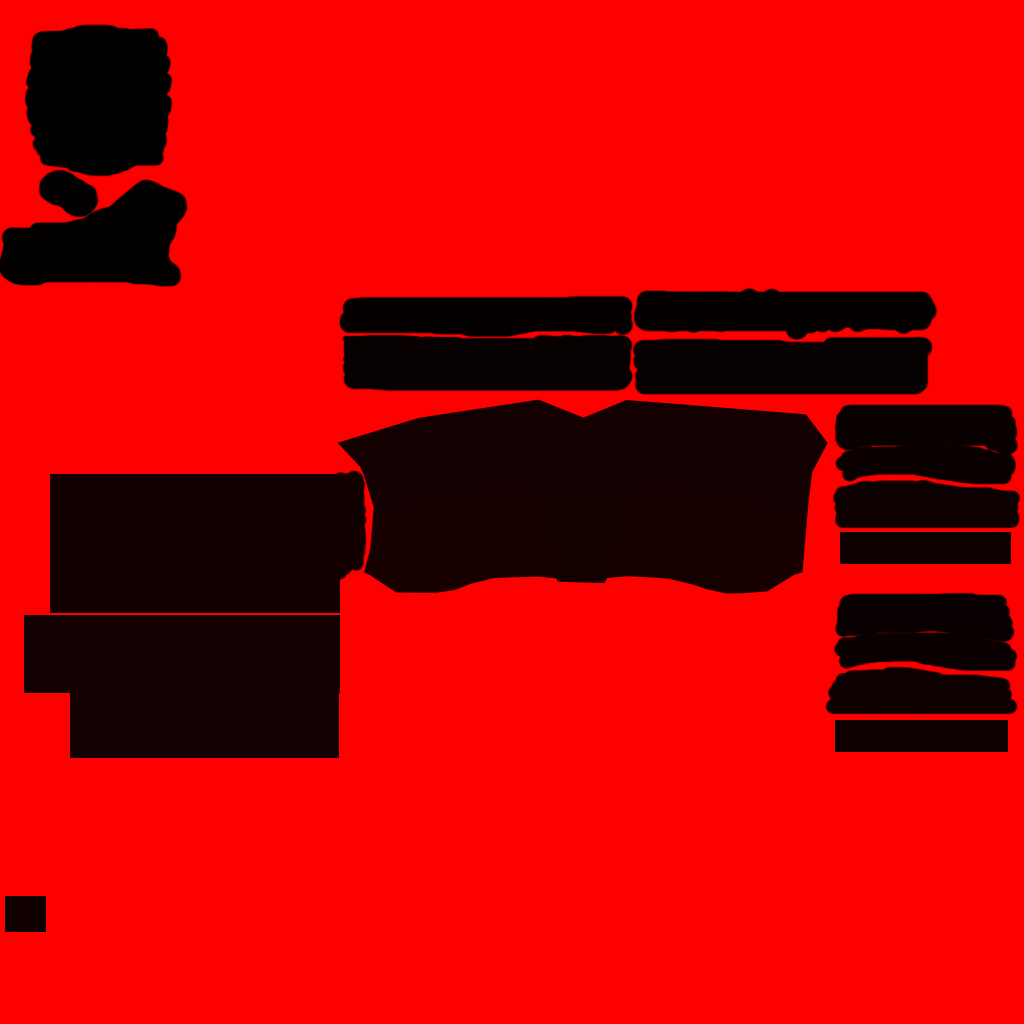
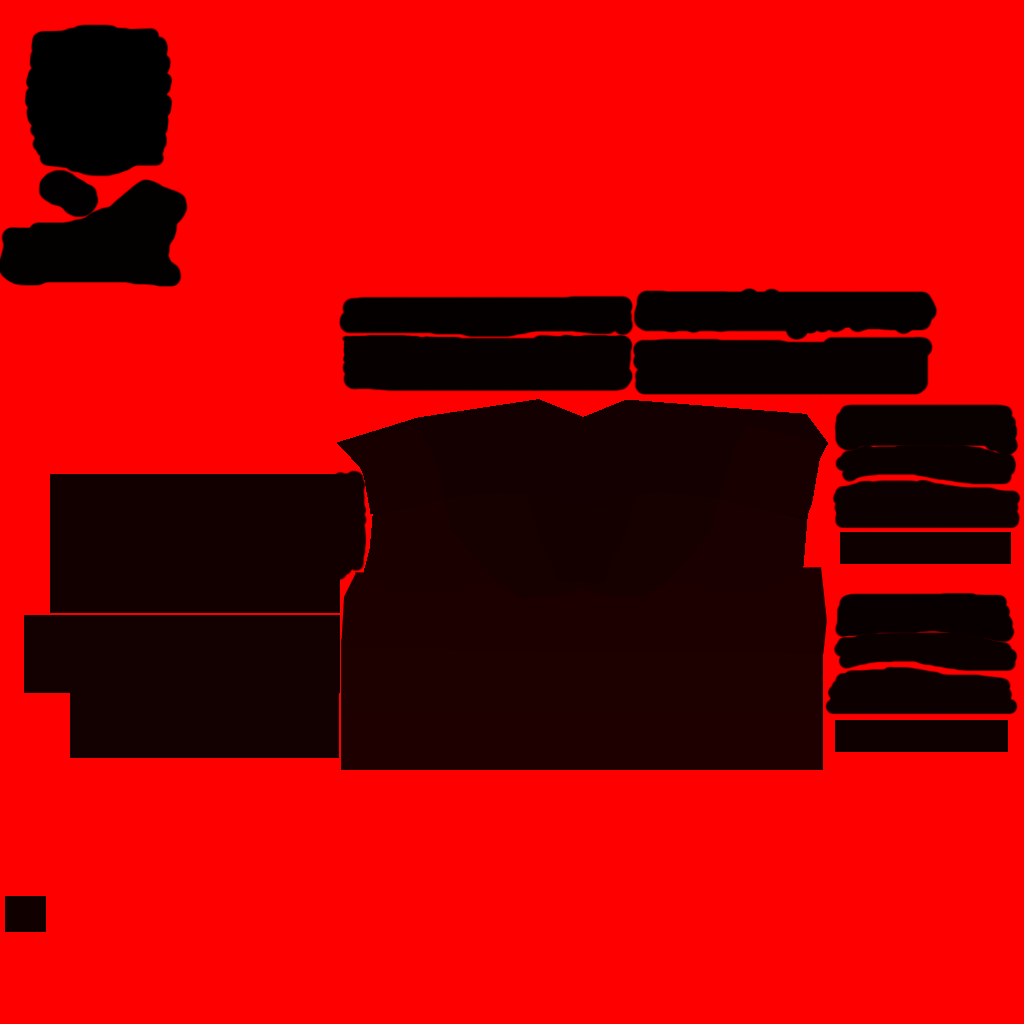
fix body id lut

Changed region(s): [[0.3125, 0.5312, 0.8125, 0.75], [0.7812, 0.4688, 0.8125, 0.5], [0.3438, 0.4688, 0.375, 0.5]]

diff --git a/demo/src/index.js b/demo/src/index.js
@@ -88,7 +88,7 @@ var Utils = Utils || {};
 
     var glAvatarSystem = {
 
-        BODY_VISIBILITY_LENGTH: 24,
+        BODY_VISIBILITY_LENGTH: 31,
         BODY_PART_UNIFORM_BLOCK_ID: 16,
 
 
